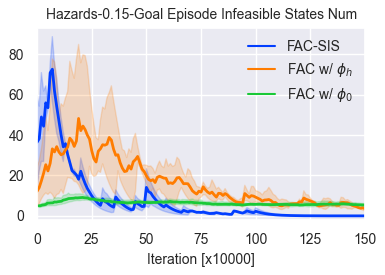
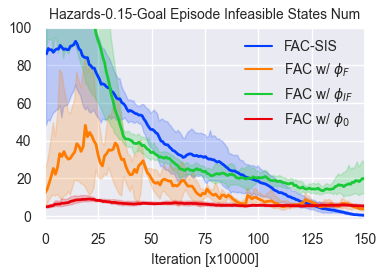
update plots

diff --git a/data_process/lineplot_aaai.py b/data_process/lineplot_aaai.py
@@ -19,7 +19,7 @@ fontsize = 10 if paper else 16
 SMOOTHFACTOR = 0.15
 SMOOTHFACTOR2 = 24
 DIV_LINE_WIDTH = 50
-txt_store_alg_list = ['CPO', 'PPO-L', 'TRPO-L','PPO-DA','PPO-H','FSAC-0']
+txt_store_alg_list = ['CPO', 'PPO-L', 'TRPO-L','PPO-DA','PPO-H','FSAC-0','PPO-H2',]
 env_name_dict = dict(CustomGoal2='Hazards-0.15-Goal', CustomGoal3='Hazards-0.30-Goal',
                      CustomGoalPillar2='Pillars-0.15',CustomGoalPillar3='Pillar-0.30',
                      CustomPush1='Hazards-0.15-Push',CustomPush2='Hazards-0.30-Push')
@@ -30,6 +30,8 @@ y_lim_dict=dict(CustomPush2_episode_cost=[-0.5, 5],
                 CustomPush1_episode_cost=[-0.1, 1],
                 CustomGoal3_episode_cost=[-0.3, 3],
                 CustomGoal2_episode_cost=[-0.1, 1],
+                CustomGoal2_ep_phi_increase_times=[-3, 100],
+                CustomGoal3_ep_phi_increase_times=[-3, 100],
                 CustomPush1_ep_phi_increase_times=[-1, 40],
                 CustomPush2_ep_phi_increase_times=[-1, 40])
 label_font_prop = dict(family='Microsoft YaHei', size=16)
@@ -37,19 +39,21 @@ legend_font_prop = dict(family='Microsoft YaHei')
 
 
 def help_func():
-    tag2plot = ['episode_cost','episode_return'] #,'episode_cost', 'episode_return'
+    # tag2plot = ['episode_return'] #,'episode_cost', 'episode_return'
     tag2plot = ['ep_phi_increase_times']
     # tag2plot = ['cost_rate']
-    alg_list = ['FSAC-A','FSAC', 'FSAC-0', 'TRPO-L', 'CPO', 'PPO-L'] #
-    # alg_list = ['PPO-DA','PPO-H','FSAC-0'] #
+    # alg_list = ['FSAC-A','FSAC', 'FSAC-0', 'TRPO-L', 'CPO', 'PPO-L'] #
+    alg_list = ['PPO-DA','PPO-H','PPO-H2','FSAC-0'] #
+    # alg_list = ['PPO-DA', 'FSAC', 'PPO-H2', 'FSAC-0']  #
     # alg_list = ['FSAC-A','FSAC','FSAC-0'] # 'FSAC-A'
     # alg_list = ['PPO-DA', 'PPO-H', 'FSAC-0', 'TRPO-L', 'CPO', 'PPO-L']  #
+    # alg_list = ['PPO-DA', 'FSAC', 'FSAC-0', 'TRPO-L', 'CPO', 'PPO-L']  #
     # lbs = ['SSAC', 'FSAC-A' ] # , 'TRPO-Lagrangian', 'CPO', 'PPO-Lagrangian'
     # lbs = [r'$\phi_h$', r'$\phi_\xi$']
-    lbs = ['FAC-SIS', r'FAC w/ $\phi_h$', r'FAC w/ $\phi_0$', 'TRPO-L', 'CPO', 'PPO-L'] #
-    # lbs = ['FAC-SIS', r'FAC w/ $\phi_h$', r'FAC w/ $\phi_0$',]
-    task = ['CustomGoal2'] # 'CustomGoal2','CustomPush1','CustomGoal3',
-    # task = ['CustomPush1','CustomPush2','CustomGoal3',]  # 'CustomGoal2','CustomPush1','CustomGoal3',
+    # lbs = ['FAC-SIS', r'FAC w/ $\phi_h$', r'FAC w/ $\phi_0$', 'TRPO-L', 'CPO', 'PPO-L'] #
+    lbs = ['FAC-SIS', r'FAC w/ $\phi_{F}$',  r'FAC w/ $\phi_{IF}$', r'FAC w/ $\phi_0$',]
+    # task = ['CustomGoal2'] # 'CustomGoal2','CustomPush1','CustomGoal3',
+    task = ['CustomPush1','CustomPush2','CustomGoal3',] # 'CustomGoal2','CustomPush1','CustomGoal3',
     palette = "bright"
     goal_perf_list = [-200, -100, -50, -30, -20, -10, -5]
     dir_str = '../results/{}/{}' # .format(algo name) # /data2plot
@@ -57,6 +61,7 @@ def help_func():
 
 def plot_eval_results_of_all_alg_n_runs(dirs_dict_for_plot=None, hide_legend=False):
     tag2plot, alg_list, task_list, lbs, palette, _, dir_str = help_func()
+    if 'ep_phi_increase_times' in tag2plot: hide_legend=False
     df_dict = {}
     df_in_one_run_of_one_alg = {}
     for task in task_list:
@@ -151,7 +156,7 @@ def plot_eval_results_of_all_alg_n_runs(dirs_dict_for_plot=None, hide_legend=Fal
             for line in leg.get_lines():
                 line.set_linewidth(4.0)
             plt.tight_layout(pad=0.5)
-            fig_name = '../data_process/figure/aaai_legends.png'
+            fig_name = '../data_process/figure/aaai_legends_short.png' if tag == 'ep_phi_increase_times' else '../data_process/figure/aaai_legends.png'
             plt.savefig(fig_name)
 
 
@@ -198,6 +203,10 @@ def get_datasets(logdir, tag2plot, alg, condition=None, smooth=SMOOTHFACTOR2, nu
                         else 0
                 # exp_data['episode_return'] = exp_data['episode_return'] * 1.5
                 exp_data['cost_rate'] = exp_data['cost_rate'] * 0.7
+            if alg == 'PPO-H':
+                for i in range(len(exp_data)):
+                    exp_data['ep_phi_increase_times'][i] = exp_data['ep_phi_increase_times'][i] if exp_data['iteration'][i] <= 100 \
+                        else (150 - exp_data['iteration'][i]+10) / 60 * exp_data['ep_phi_increase_times'][i]
 
 
             datasets.append(exp_data)
